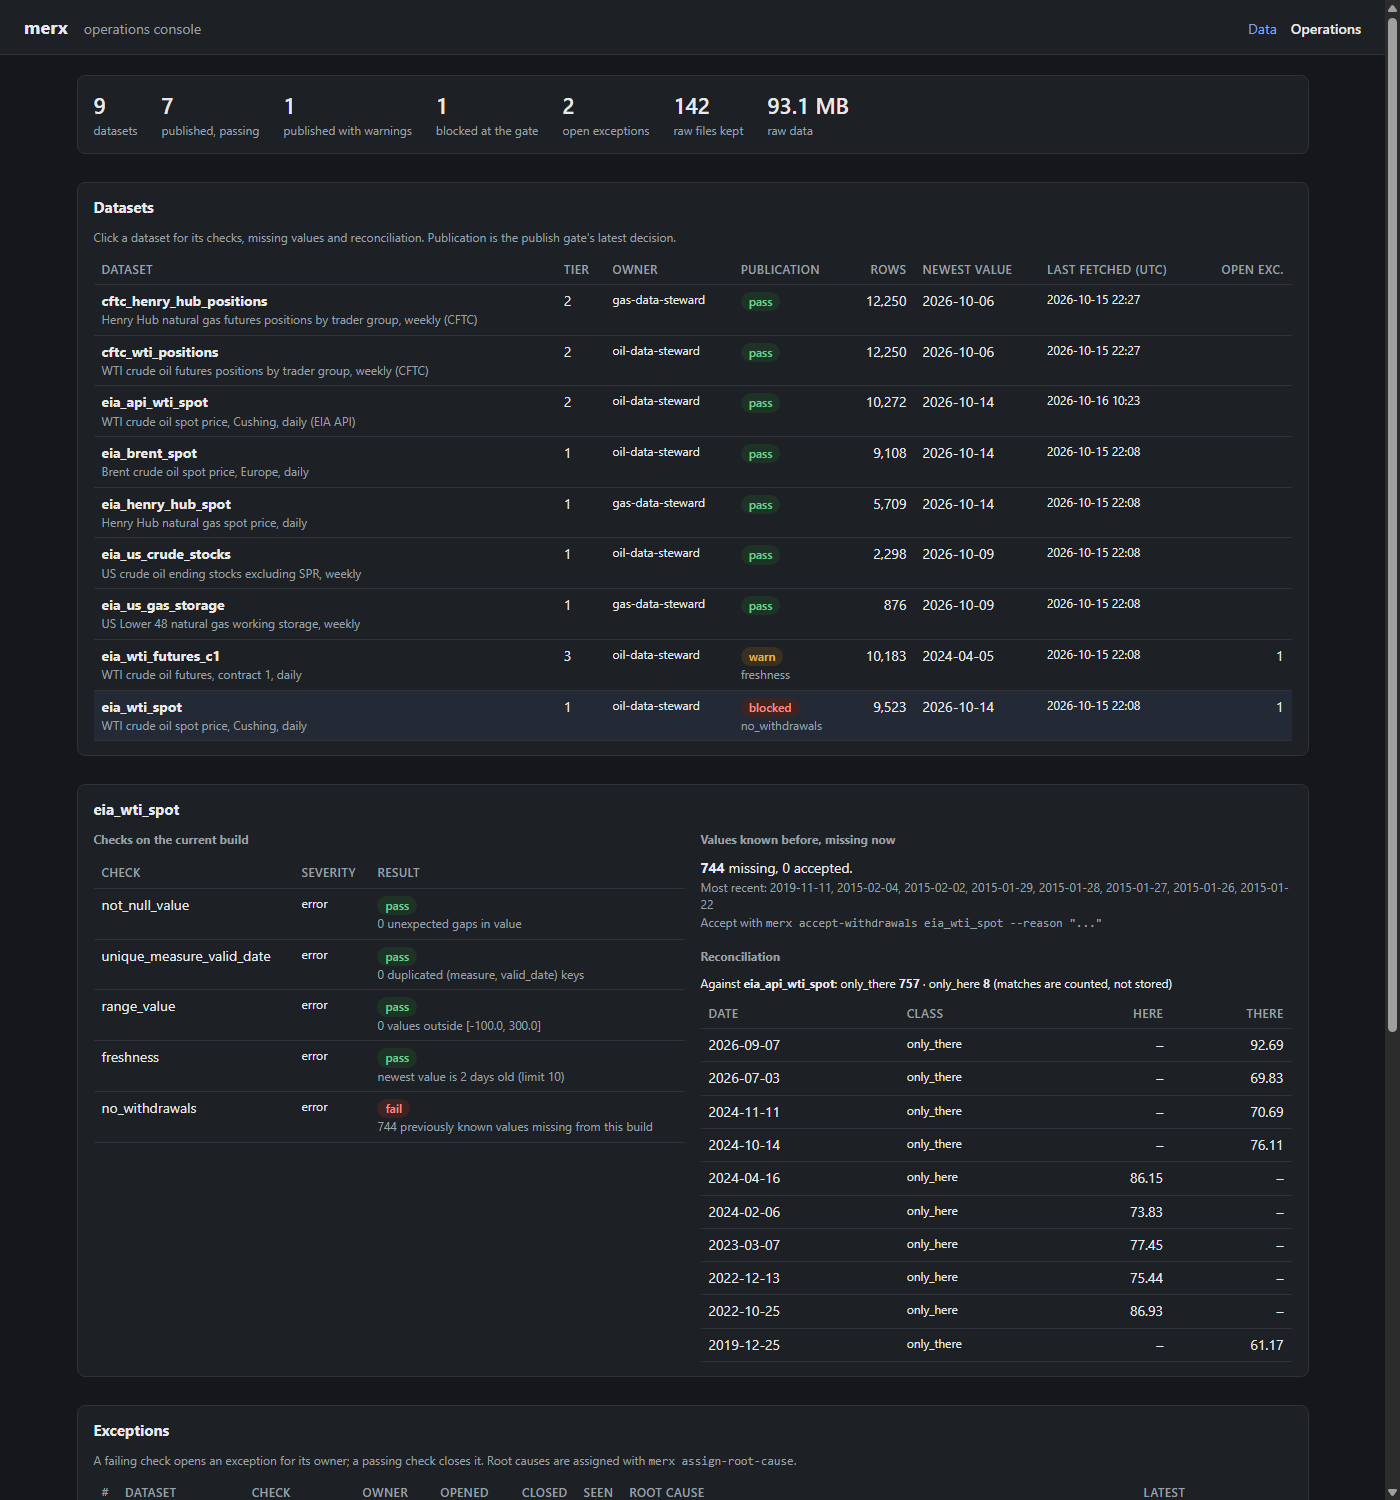
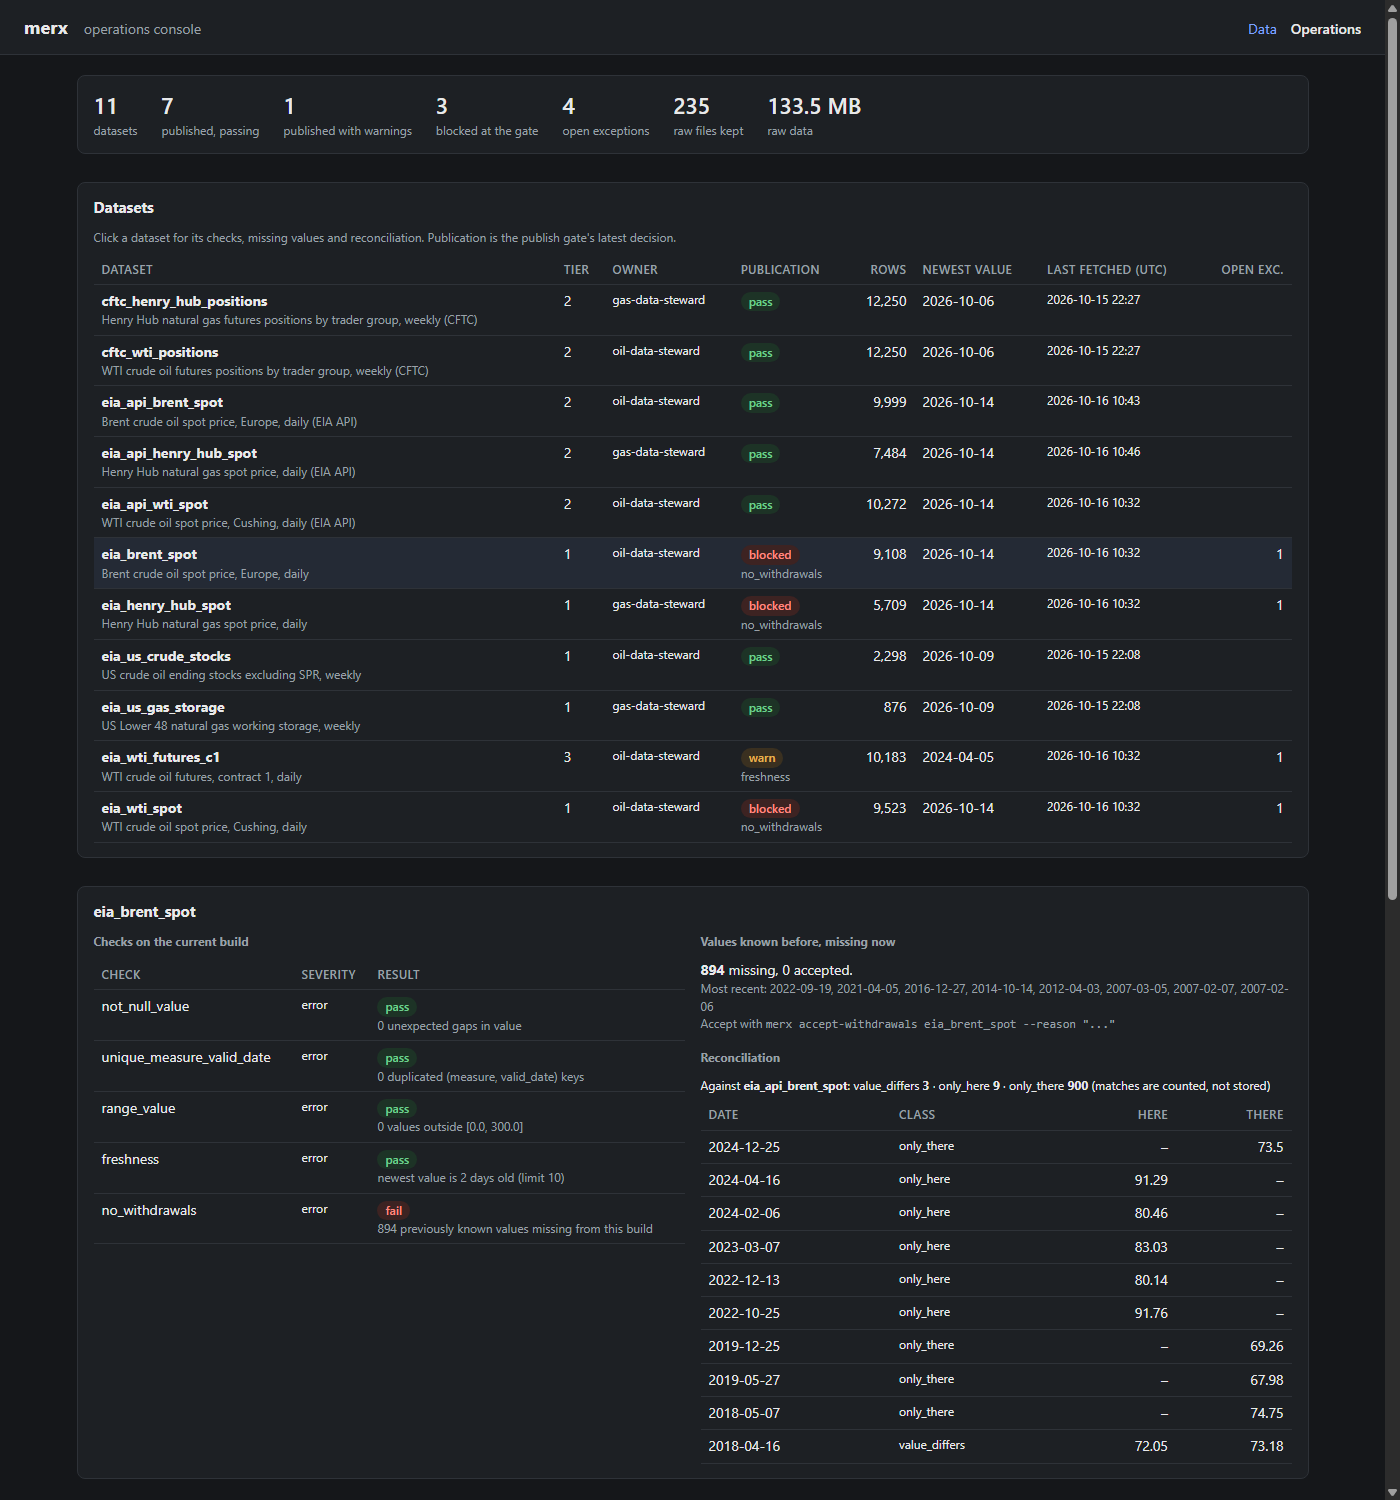
Reconcile Brent and Henry Hub against EIA's API too
A row count showed the WTI loss was not a one-off: Brent and Henry Hub
spreadsheets also hold far fewer daily values than the API. Both get a
second channel, reconciliation and archive history by configuration
alone. The history shows 890 Brent and 1,768 Henry Hub prices dropped
between May and October 2026, and 3 genuine value disagreements across
more than 24,000 shared dates. All three spot series are now blocked at
the gate pending a decision.

diff --git a/src/merx/api/static/client.html b/src/merx/api/static/client.html
@@ -75,6 +75,8 @@ const PRESETS = {
   eia_us_crude_stocks: [["2016-06-01", "before the 2016 redefinition"]],
   eia_us_gas_storage: [["2018-01-01", "before the 2017 revisions were known"]],
   eia_wti_spot: [["2026-09-10", "before 744 values were dropped"]],
+  eia_brent_spot: [["2026-08-31", "before 890 values were dropped"]],
+  eia_henry_hub_spot: [["2026-06-01", "before 1,768 values were dropped"]],
 };
 let catalog = [], current = null, years = 15;
 

diff --git a/README.md b/README.md
@@ -4,7 +4,7 @@
 as a small, honest version of how commodity datasets are manufactured and kept
 trustworthy.
 
-> **Status: early.** Nine real datasets from two public sources run end to end through
+> **Status: early.** Eleven real datasets from two public sources run end to end through
 > the engine (contract → raw download → staged table → checks → publish gate,
 > orchestrated by Dagster), failing checks become tracked exceptions, every value keeps
 > its full revision history, the data-quality lab scores anomaly detectors on the data,
@@ -38,6 +38,8 @@ of the whole history.
 | US Lower 48 natural gas in storage | EIA | weekly | 1 |
 | WTI crude oil futures, contract 1 | EIA | daily (series ended 2024-04-05) | 3 |
 | WTI crude oil spot, second channel (EIA API) | EIA API | daily | 2 |
+| Brent crude oil spot, second channel (EIA API) | EIA API | daily | 2 |
+| Henry Hub natural gas spot, second channel (EIA API) | EIA API | daily | 2 |
 | WTI futures positions by trader group (14 measures) | CFTC | weekly, yearly files from 2010 | 2 |
 | Henry Hub futures positions by trader group (14 measures) | CFTC | weekly, yearly files from 2010 | 2 |
 
@@ -64,13 +66,14 @@ published/eia_wti_spot  the gate: tier 1 publishes only if no error-level check 
                         tiers 2 and 3 publish marked "warn". Every attempt is logged.
 ```
 
-As of 2026-10-16, seven datasets publish. The futures series (tier 3) is marked `warn`
-because its newest value is from April 2024 (root cause `source_discontinued`). **WTI
-spot is blocked** by `no_withdrawals`: 744 daily prices that the history knows are
-missing from the source's current file (root cause `source_data_error`), and nobody has
-accepted that loss. Reconciling the spreadsheet against EIA's API (D-012) shows the two
-channels agree exactly on every shared date; the API has those 744 values plus 13
-holiday fills, and lacks 8 dates the spreadsheet has.
+As of 2026-10-16, eight datasets publish. The futures series (tier 3) is marked `warn`
+because its newest value is from April 2024 (root cause `source_discontinued`). **WTI,
+Brent and Henry Hub spot are blocked** by `no_withdrawals`: EIA's spreadsheets for all
+three dropped large parts of their older history between May and October 2026 (744,
+890 and 1,768 daily prices), while EIA's API still serves them. Reconciling each
+spreadsheet against the API (D-012) shows the channels agree on all but 3 of more than
+24,000 shared values; the disagreement is about which dates exist. Nobody has accepted
+the losses (root cause `source_data_error`).
 
 Every staged table has the same long shape: one row per `(measure, valid_date)`, with
 the value, its unit, our instrument identifier, and the raw file and fetch time it came
@@ -79,16 +82,17 @@ from. A single-series dataset has one measure (`price`, `stocks`, `working_gas`)
 ## Point-in-time history
 
 Sources overwrite their files in place. `pit."<id>"` keeps every version of every value
-with when it became known, rebuilt by replaying every raw download; for three datasets
+with when it became known, rebuilt by replaying every raw download; for five datasets
 the history is backfilled from dated copies in the Internet Archive's Wayback Machine
 (back to 2010). Any dataset can be rebuilt *as known at* any moment. What it found:
 
 - US crude stocks: in 2016 the entire weekly history back to 1982 was revised down by
   15.7 to 34.1 million barrels.
 - US gas storage: seven weekly values revised (2017, 2021, 2024).
-- WTI spot: between September and October 2026, **744 daily prices from 1986 to 2019
-  disappeared from EIA's spreadsheet** while EIA's API still serves them. No check on
-  the rows present could see this; the history did.
+- WTI, Brent and Henry Hub spot: between May and October 2026, **3,402 daily prices
+  (744, 890 and 1,768) disappeared from EIA's spreadsheets** while EIA's API still
+  serves them. No check on the rows present could see this; the history did.
+- Henry Hub: in 2013, 57 prices were rounded from three decimals to two.
 
 Details: [`docs/BUILD_LOG.md`](docs/BUILD_LOG.md), decision D-010.
 

diff --git a/docs/BUILD_LOG.md b/docs/BUILD_LOG.md
@@ -275,3 +275,51 @@ value. Links can carry the series and date, e.g.
 2012-11-30: the archive holds no copies from 2013 or 2014, so nothing newer was known to
 the history then. Correct, but a reminder that archive-based history is only as dense as
 the archive's copies.
+
+## 2026-10-16: Brent and Henry Hub through a second channel; the losses are systematic
+
+**Built, by configuration only.** Two contracts (`eia_api_brent_spot`,
+`eia_api_henry_hub_spot`) and three lines each on the spreadsheet contracts
+(`reconcile_with`, `archive_backfill`). No code changed. 119 tests.
+
+**Probed first.** API rows against spreadsheet rows (2026-10-16): crude stocks 2,298 =
+2,298 and gas storage 876 = 876 (weekly series agree), but Brent 9,993 against 9,108 and
+Henry Hub 7,484 against 5,709 over the same span (both start 1997-01-07 / 1987-05-20).
+Prediction before the probe was that WTI's loss was a one-off. It was not.
+
+**Live run.**
+
+| | WTI spot | Brent spot | Henry Hub spot |
+|---|---|---|---|
+| Archive copies | 50 of 51 | 47 of 50 | 39 of 39 |
+| Values withdrawn in the big loss | 744 (1986-01-31 to 2019-11-11) | 890 (1987-12-21 to 2014-10-14) | 1,768 (1997-01-22 to 2011-07-12) |
+| When (between) | 2026-09-05 and 2026-10-11 copies | 2026-08-30 and 2026-09-17 copies | 2026-05-05 copy and our 2026-10-15 download |
+| Still in the API | all 744 | 892 of 894 withdrawn | all |
+| Reconciliation: match / value differs | 9,515 / 0 | 9,096 / **3** | 5,707 / 0 |
+| API only (besides the withdrawn) | 13 US holidays | 8 holidays, incl. UK bank holidays | (counted with the withdrawn) |
+| Spreadsheet only | 8 | 9 | 2 |
+
+- **All three daily price spreadsheets lost large parts of their older history within the
+  same few months of 2026**, while the API kept them. For Henry Hub, the spreadsheet now
+  holds 58 to 99 values a year for 1998-2006 against about 250 in the API. The cause is
+  not known and is not guessed here.
+- **The API's own gaps repeat across series**: WTI and Brent lack the same dates
+  (2014-09-30 to 2014-10-02, 2022-10-25, 2022-12-13, 2023-03-07, 2024-02-06, 2024-04-16)
+  that their spreadsheets have.
+- **Three real value disagreements** (Brent 2016-12-28, 2016-12-29, 2018-04-16): the
+  first, after more than 24,000 shared dates across the three series.
+- **A precision change**: 57 of Henry Hub's 59 revisions happened together in a copy of
+  2013-04-21, when three-decimal prices were rounded to two (2.975 became 2.98).
+- Henry Hub's 2018-01-05 gap is in both channels; the API contract accepts it by name, and
+  the exception it had opened closed on the next run (time to recover: under a minute).
+
+**Gate state:** WTI, Brent and Henry Hub spot (all tier 1) are blocked by
+`no_withdrawals`; exceptions 2, 3 and 5 carry the root cause `source_data_error`; the
+withdrawn values are not accepted, pending a decision on repairing them from the API.
+
+**Not every withdrawal is an error.** Henry Hub's eight earlier, scattered withdrawals
+are non-trading days: six Sundays removed in a copy of 2025-02-03 (2020-03-01 to
+2020-03-29, 2024-06-16) and two US holidays (Memorial Day 2015, Veterans Day 2019). They
+look like the source cleaning up, unlike the bulk losses of 2026. The check flags both
+kinds the same way, which is why accepting a withdrawal is a person's decision with a
+reason, not an automatic rule.
